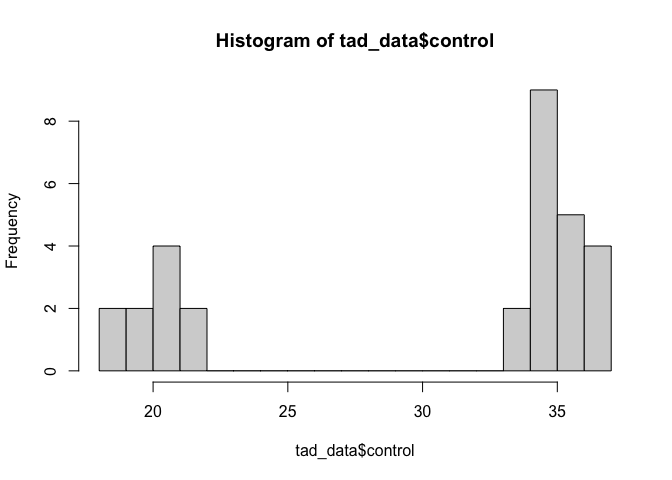
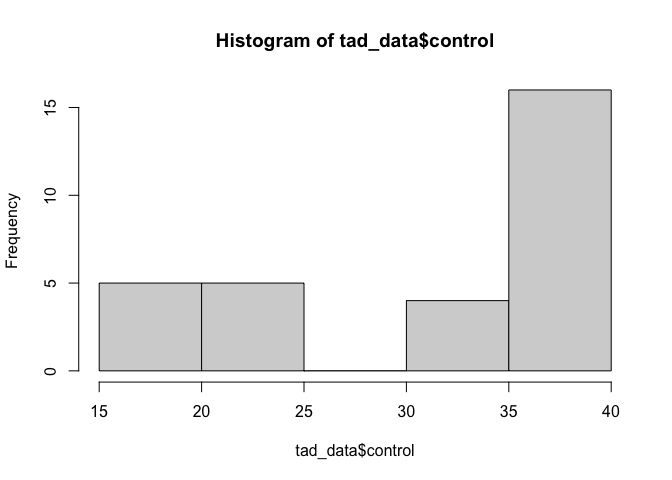
Chapter 1 sample answers

diff --git a/Chapter_1_answers.md b/Chapter_1_answers.md
@@ -39,7 +39,15 @@ hourglass treefrogs (the species pictured on the cover of the book),
 which we will abbreviate “HGTF”, red-eyed treefrogs, which will be
 “RETF”, and Rosenberg’s gladiator frog, or “GLDF”.
 
-**ADD PHOTOS OF THE THREE SPECIES**
+<div class="figure">
+
+<img src="/Users/jutouchon/Desktop/Stats_Book/github_staging/pdf_versions/Treefrog_collage.png" alt="Three beautiful treefrogs from Central America. Photos by Justin Touchon." width="100%" />
+<p class="caption">
+Three beautiful treefrogs from Central America. Photos by Justin
+Touchon.
+</p>
+
+</div>
 
 In order to make our factor, we can combine the functions **rep()** and
 **c()**. Each species abbreviation is repeated 10 times, and those
@@ -102,28 +110,28 @@ dietB<-c(rnorm(n=10, mean=20, sd=1), rnorm(n=10, mean=35, sd=1), rnorm(n=10, mea
 control
 ```
 
-    ##  [1] 20.17443 20.02090 21.14763 19.99478 21.73200 18.92953 20.82161 18.99261
-    ##  [9] 20.72873 19.68664 34.56549 35.02984 33.65618 36.18147 34.71558 34.55194
-    ## [17] 35.34544 33.35104 35.16094 36.24489 34.22293 36.19469 35.32442 34.86937
-    ## [25] 34.92551 34.67136 35.11028 34.19481 34.91127 36.27236
+    ##  [1] 18.72820 19.25319 20.02667 20.53807 21.70795 19.18794 20.46985 20.53921
+    ##  [9] 19.85295 19.56012 35.31645 34.71770 34.17401 35.72189 36.44019 37.07270
+    ## [17] 35.65670 36.41321 35.92935 35.38766 36.06378 35.53255 36.27463 36.18571
+    ## [25] 35.86848 35.22114 35.91084 33.62659 35.90005 34.69478
 
 ``` r
 dietA
 ```
 
-    ##  [1] 19.09213 20.83385 19.19284 19.94042 21.67629 20.51184 19.07907 19.76733
-    ##  [9] 20.05211 20.43736 42.29968 43.06605 44.82587 42.40482 44.45472 44.74996
-    ## [17] 45.36806 44.58523 44.33072 44.28197 35.79729 35.59719 35.57811 33.89621
-    ## [25] 34.83084 35.02663 35.07970 34.91181 33.77382 33.96186
+    ##  [1] 19.80887 20.97408 19.28349 19.78560 21.51255 20.68965 18.70359 20.05042
+    ##  [9] 20.60273 19.61472 46.89170 44.70118 45.53681 44.43668 43.44987 45.91863
+    ## [17] 46.57123 44.51752 43.90210 43.92974 33.64489 35.81771 33.67199 35.35231
+    ## [25] 34.43491 35.09164 35.62986 35.51828 34.45973 34.93001
 
 ``` r
 dietB
 ```
 
-    ##  [1] 20.89480 19.76709 21.24921 20.31466 19.04726 21.51374 19.57992 19.74502
-    ##  [9] 18.49013 17.91113 37.35305 33.98273 33.70523 35.42741 34.35397 33.73277
-    ## [17] 35.13324 34.47162 35.05560 32.58315 51.18535 49.81602 50.22432 50.15823
-    ## [25] 49.51805 50.42307 49.45128 49.25580 50.24656 49.14009
+    ##  [1] 20.07010 21.17149 19.77113 17.29299 21.17832 19.17521 18.76150 19.79559
+    ##  [9] 20.45179 18.93592 34.67616 35.41856 36.07618 34.86487 35.40879 35.04479
+    ## [17] 35.39606 35.68920 35.04038 34.55321 49.89447 51.27379 49.06495 48.42376
+    ## [25] 50.04472 49.75383 50.62677 50.65833 49.89301 50.81600
 
 Okay, now we have our four vectors. It’s time to combine them into a
 data frame using the function **data.frame()**. Remember to assign your
@@ -135,36 +143,36 @@ tad_data
 ```
 
     ##    species  control    dietA    dietB
-    ## 1     HGTF 20.17443 19.09213 20.89480
-    ## 2     HGTF 20.02090 20.83385 19.76709
-    ## 3     HGTF 21.14763 19.19284 21.24921
-    ## 4     HGTF 19.99478 19.94042 20.31466
-    ## 5     HGTF 21.73200 21.67629 19.04726
-    ## 6     HGTF 18.92953 20.51184 21.51374
-    ## 7     HGTF 20.82161 19.07907 19.57992
-    ## 8     HGTF 18.99261 19.76733 19.74502
-    ## 9     HGTF 20.72873 20.05211 18.49013
-    ## 10    HGTF 19.68664 20.43736 17.91113
-    ## 11    RETF 34.56549 42.29968 37.35305
-    ## 12    RETF 35.02984 43.06605 33.98273
-    ## 13    RETF 33.65618 44.82587 33.70523
-    ## 14    RETF 36.18147 42.40482 35.42741
-    ## 15    RETF 34.71558 44.45472 34.35397
-    ## 16    RETF 34.55194 44.74996 33.73277
-    ## 17    RETF 35.34544 45.36806 35.13324
-    ## 18    RETF 33.35104 44.58523 34.47162
-    ## 19    RETF 35.16094 44.33072 35.05560
-    ## 20    RETF 36.24489 44.28197 32.58315
-    ## 21    GLDF 34.22293 35.79729 51.18535
-    ## 22    GLDF 36.19469 35.59719 49.81602
-    ## 23    GLDF 35.32442 35.57811 50.22432
-    ## 24    GLDF 34.86937 33.89621 50.15823
-    ## 25    GLDF 34.92551 34.83084 49.51805
-    ## 26    GLDF 34.67136 35.02663 50.42307
-    ## 27    GLDF 35.11028 35.07970 49.45128
-    ## 28    GLDF 34.19481 34.91181 49.25580
-    ## 29    GLDF 34.91127 33.77382 50.24656
-    ## 30    GLDF 36.27236 33.96186 49.14009
+    ## 1     HGTF 18.72820 19.80887 20.07010
+    ## 2     HGTF 19.25319 20.97408 21.17149
+    ## 3     HGTF 20.02667 19.28349 19.77113
+    ## 4     HGTF 20.53807 19.78560 17.29299
+    ## 5     HGTF 21.70795 21.51255 21.17832
+    ## 6     HGTF 19.18794 20.68965 19.17521
+    ## 7     HGTF 20.46985 18.70359 18.76150
+    ## 8     HGTF 20.53921 20.05042 19.79559
+    ## 9     HGTF 19.85295 20.60273 20.45179
+    ## 10    HGTF 19.56012 19.61472 18.93592
+    ## 11    RETF 35.31645 46.89170 34.67616
+    ## 12    RETF 34.71770 44.70118 35.41856
+    ## 13    RETF 34.17401 45.53681 36.07618
+    ## 14    RETF 35.72189 44.43668 34.86487
+    ## 15    RETF 36.44019 43.44987 35.40879
+    ## 16    RETF 37.07270 45.91863 35.04479
+    ## 17    RETF 35.65670 46.57123 35.39606
+    ## 18    RETF 36.41321 44.51752 35.68920
+    ## 19    RETF 35.92935 43.90210 35.04038
+    ## 20    RETF 35.38766 43.92974 34.55321
+    ## 21    GLDF 36.06378 33.64489 49.89447
+    ## 22    GLDF 35.53255 35.81771 51.27379
+    ## 23    GLDF 36.27463 33.67199 49.06495
+    ## 24    GLDF 36.18571 35.35231 48.42376
+    ## 25    GLDF 35.86848 34.43491 50.04472
+    ## 26    GLDF 35.22114 35.09164 49.75383
+    ## 27    GLDF 35.91084 35.62986 50.62677
+    ## 28    GLDF 33.62659 35.51828 50.65833
+    ## 29    GLDF 35.90005 34.45973 49.89301
+    ## 30    GLDF 34.69478 34.93001 50.81600
 
 Hooray, you did it! As discussed earlier, you could choose anything to
 be your categories (e.g., strains of mice in a study, brands of cereal
@@ -197,7 +205,7 @@ we can type the following:
 hist(tad_data$control)
 ```
 
-![](Chapter_1_answers_files/figure-gfm/unnamed-chunk-5-1.png)<!-- -->
+![](Chapter_1_answers_files/figure-gfm/unnamed-chunk-6-1.png)<!-- -->
 
 If you do that, you might get something very unhelpful, like I have
 here. In a function like **hist()**, R is going to try to choose a set
@@ -210,7 +218,7 @@ like.
 hist(tad_data$control, breaks=20)
 ```
 
-![](Chapter_1_answers_files/figure-gfm/unnamed-chunk-6-1.png)<!-- -->
+![](Chapter_1_answers_files/figure-gfm/unnamed-chunk-7-1.png)<!-- -->
 
 We can see a cluster of data representing our smallest species and a
 larger cluster o values representing the two larger species. You should
@@ -224,7 +232,7 @@ whatever you want. (hint: type **colors()** in the console)
 hist(tad_data$control, breaks=20, xlab="Sizes of hypothetical tadpoles (mm)", col="seagreen")
 ```
 
-![](Chapter_1_answers_files/figure-gfm/unnamed-chunk-7-1.png)<!-- -->
+![](Chapter_1_answers_files/figure-gfm/unnamed-chunk-8-1.png)<!-- -->
 
 There are lots of other ways to dress up a figure. Play around with
 changing the title with the *main==* argument, or play with the range
@@ -253,7 +261,7 @@ three bars that are each 10 high.
 plot(tad_data$species)
 ```
 
-![](Chapter_1_answers_files/figure-gfm/unnamed-chunk-8-1.png)<!-- -->
+![](Chapter_1_answers_files/figure-gfm/unnamed-chunk-9-1.png)<!-- -->
 
 What happens if we provide a vector of numeric values? R will plot each
 of the values in our vector on the y-axis, with the x-axis being the row
@@ -266,7 +274,7 @@ smaller than values 11–30, which correspond to the two larger species.
 plot(tad_data$control)
 ```
 
-![](Chapter_1_answers_files/figure-gfm/unnamed-chunk-9-1.png)<!-- -->
+![](Chapter_1_answers_files/figure-gfm/unnamed-chunk-10-1.png)<!-- -->
 
 In the coming chapters we will explore what happens if you provide
 combinations of vectors as the x- and y-values, and we will begin
